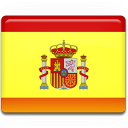
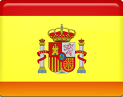
update language imgs and add hover effect

diff --git a/js/content.js b/js/content.js
@@ -24,22 +24,22 @@ window.data = {
     "Dutch":"Kopen"
   },
   what:{
-    "EN":"What.",
-    "DE":"Was.",
-    "ES":"Qué.",
-    "Dutch":"Wat."
+    "EN":"What",
+    "DE":"Was",
+    "ES":"Qué",
+    "Dutch":"Wat"
   },
   why:{
-    "EN":"Why.",
-    "DE":"Warum.",
-    "ES":"Por qué.",
-    "Dutch":"Waarom."
+    "EN":"Why",
+    "DE":"Warum",
+    "ES":"Por qué",
+    "Dutch":"Waarom"
   },
   who:{
-    "EN":"Who.",
+    "EN":"Who",
     "DE":"Wer",
-    "ES":"Quién.",
-    "Dutch":"Wie."
+    "ES":"Quién",
+    "Dutch":"Wie"
   },
   wassup1:{
     "EN":"Wassup! We are Saw Workshop's Team!",
@@ -54,10 +54,10 @@ window.data = {
     "Dutch":"Wij produceren top-kwaliteit, handgemaakte lichtpanelen. Dit zijn perfecte tools voor tattoo artists. Iedere artist kan met onze panelen sneller en gemakkelijker goede schetsen maken."
   },
   draw1:{
-    "EN":"Draw wherever you want.",
+    "EN":"Draw wherever you want",
     "DE":"Zeichne wo auch immer du willst",
-    "ES":"Dibuja lo que quieras.",
-    "Dutch":"Teken waar je maar wilt."
+    "ES":"Dibuja lo que quieras",
+    "Dutch":"Teken waar je maar wilt"
   },
   draw2:{
     "EN":"No need to find where to draw anymore - your only place for drawing always with you.",
@@ -78,10 +78,10 @@ window.data = {
     "Dutch":"Elke tattoo artist is uniek en kiest zijn apparatuur vaak helemaal\nzelf. Maar er is één kado dat geschikt is voor elke tattoo artist of tekenaar: een goed-gebouwd LED lichtpaneel waarop ze hun schetsen\nkunnen maken"
   },
   handmade1:{
-    "EN":"Handmade.",
+    "EN":"Handmade",
     "DE":"Handgefertigt",
-    "ES":"Hechos a mano.",
-    "Dutch":"Handgemaakte kwaliteit."
+    "ES":"Hechos a mano",
+    "Dutch":"Handgemaakte kwaliteit"
   },
   handmade2:{
     "EN":"All panels are handcrafted at a local workshop in Kyiv, combining true Ukrainian love and European quality.",
@@ -90,22 +90,22 @@ window.data = {
     "Dutch":"Alle lichtpanelen zijn handgemaakt in een locale workshop in Kiev. Wij combineren Oekraïnse liefde voor techniek met Europese kwaliteit."
   },
   frees1:{
-    "EN":"Frees up time.",
+    "EN":"Frees up time",
     "DE":"Mehr Zeit fürs Wesentliche",
-    "ES":"Aumentará tu tiempo libre.",
-    "Dutch":"Meer tijd over."
+    "ES":"Aumentará tu tiempo libre",
+    "Dutch":"Meer tijd over"
   },
   frees2:{
-    "EN":"Tattoo artists draw sketches 30-60% faster through the use of panels.",
-    "DE":"Tätowierer zeichnen Skizzen 30-60% schneller mit Hilfe der Panels.",
-    "ES":"Los tatuadores dibujan boceto un 30 -  60% más rápido con estos paneles.",
-    "Dutch":"Tattoo artists tekenen hun schetsen 30-60% sneller door het gebruik van onze panelen."
+    "EN":"Tattoo artists draw sketches 30-60% faster through the use of panels",
+    "DE":"Tätowierer zeichnen Skizzen 30-60% schneller mit Hilfe der Panels",
+    "ES":"Los tatuadores dibujan boceto un 30 -  60% más rápido con estos paneles",
+    "Dutch":"Tattoo artists tekenen hun schetsen 30-60% sneller door het gebruik van onze panelen"
   },
   designed1:{
-    "EN":"Designed for sketching.",
+    "EN":"Designed for sketching",
     "DE":"Designed fürs Skizzieren",
-    "ES":"Diseñado para dibujar.",
-    "Dutch":"Ontworpen voor schetsen."
+    "ES":"Diseñado para dibujar",
+    "Dutch":"Ontworpen voor schetsen"
   },
   designed2:{
     "EN":"Workspace of the panel has size equals to A3 paper. Also, it is divided into centimetre squares. This is especially good for drawing geometric patterns.\n",
@@ -114,10 +114,10 @@ window.data = {
     "Dutch":"Het werkoppervlak van het paneel is even groot als een A3-vel. Om schetsen makkelijker te maken hebben wij een centimeterraster ingebouwd in ons lichtpaneel. Hierdoor wordt het heel gemakkelijk om geometrische patronen te tekenen."
   },
   brightness1:{
-    "EN":"Brightness control.",
+    "EN":"Brightness control",
     "DE":"Helligkeit regelbar",
-    "ES":"Control de brillo.",
-    "Dutch":"Instelbare helderheid."
+    "ES":"Control de brillo",
+    "Dutch":"Instelbare helderheid"
   },
   brightness2:{
     "EN":"The panel is connected to the power supply of tattoo machines via clip cord. An artist can adjust the brightness of the panel by adjusting the voltage.",
@@ -126,7 +126,7 @@ window.data = {
     "Dutch":"Het paneel wordt gevoed met het clip cord dat uit je tattoovoeding komt. Je kunt de helderheid helemaal naar wens instellen door aan de spanning van je voeding te draaien."
   },
   ourMission1:{
-    "EN":"Our mission.",
+    "EN":"Our mission",
     "DE":"Unsere Mission",
     "ES":"Nuestra misión",
     "Dutch":"Onze Missie"

diff --git a/index.html b/index.html
@@ -1,4 +1,4 @@
-<!DOCTYPE html>
+<!DOCTYPE html>
 <html>
 <head>
 <link href="http://www.sawworkshop.com/favicon_16.png" sizes="16x16" rel="shortcut icon" type="image/png">
@@ -56,14 +56,12 @@
 			  <a class="navbar-brand" href="http://www.sawworkshop.com/">
 				<img alt="Saw Workshop" src="img/saw_logo.png" height="21" width="auto">
 			  </a>
-			  <!-- <button onclick="render(true, 'EN')">English</button>
-			  <button onclick="render(true, 'Dutch')">Dutch</button>
-			  <button onclick="render(true, 'ES')">Spain</button>
-			  <button onclick="render(true, 'DE')">German</button> -->
-			  <img class="language" width="40" style="margin-top:5px; cursor:pointer;" onclick="render(true, 'EN')" src="/img/flags/en.png">
-			  <img class="language" width="40" style="margin-top:5px; cursor:pointer;" onclick="render(true, 'Dutch')" src="/img/flags/eu.png">
-			  <img class="language" width="40" style="margin-top:5px; cursor:pointer;" onclick="render(true, 'ES')" src="/img/flags/es.png">
-			  <img class="language" width="40" style="margin-top:5px; cursor:pointer;" onclick="render(true, 'DE')" src="/img/flags/de.png">
+
+			  <img class="language" width="40" style="margin-top:9px; cursor:pointer;" onclick="render(true, 'EN', this)" src="/img/flags/earth_white.png">
+			  <img class="language" width="30" style="margin-top:7px; cursor:pointer;" onclick="render(true, 'EN', this)" src="/img/flags/eu.png">
+			  <img class="language" width="30" style="margin-top:7px; cursor:pointer;" onclick="render(true, 'DE', this)" src="/img/flags/de.png">
+			  <img class="language" width="30" style="margin-top:7px; cursor:pointer;" onclick="render(true, 'ES', this)" src="/img/flags/es.png">
+			  <img class="language" width="33" style="margin-top:7px; cursor:pointer;" onclick="render(true, 'Dutch', this)" src="/img/flags/benelux.png">
 			</div>
 
 			<!-- Collect the nav links, forms, and other content for toggling -->
@@ -277,6 +275,7 @@
 			<p><strong>{{ team1 }}</strong> {{ team2 }}
 			</p>
 			<p>{{ team3 }}</p>
+			<br/>
 			<div class="address">
 				<a href="https://www.facebook.com/glavat" target="_blank"><p>fb.com/glavat</p></a>
 			</div>
@@ -312,6 +311,7 @@
 			<p><strong>Social</strong> networker who communicates via facebook and instagram.
 			</p>
 			<p>Customer relationships, promo, PR</p>
+			<br/>
 			<div class="address">
 				<a href="https://www.facebook.com/dan.glavatskyh" target="_blank"><p>fb.com/dan.glavatskyh</p></a>
 			</div>
@@ -498,8 +498,8 @@
 
 	function showPosition(position) {
 		$.post( 'https://www.googleapis.com/geolocation/v1/geolocate?key=AIzaSyD95pD3EF2_j1Q4gocG8YwH6GBiMyGSVYs', function( data ) {
-        console.log('geolocation response');
-        console.log(data);
+        // console.log('geolocation response');
+        // console.log(data);
         getCountry(data.location.lat, data.location.lng);
 	    })
 	    .fail(function(data){
@@ -512,19 +512,19 @@
 
 function getCountry(lat, lng){
     $.get('http://maps.googleapis.com/maps/api/geocode/json', { latlng: lat + ',' + lng }, function(data) {
-        console.log(data);
+        // console.log(data);
         // $('#demo').after('<p>Your country: '+ data.results[0].address_components[6].short_name +'</p>');
         var country = false;
         var p = data.results;
         for (var key in p) {
           if (p.hasOwnProperty(key)) {
-            console.log(key, " -> ", p[key]);
+            // console.log(key, " -> ", p[key]);
             if (p[key].hasOwnProperty('address_components')){
                 var address_components = p[key].address_components;
                 for (var i in address_components) {
-                    console.log('addr',address_components[i]);
+                    // console.log('addr',address_components[i]);
                     if(address_components[i].hasOwnProperty('types') && JSON.stringify(address_components[i].types) == JSON.stringify(["country", "political"])){
-                        console.log('country',address_components[i]);
+                        // console.log('country',address_components[i]);
                         country = address_components[i].short_name;
                         break;
                     }
@@ -541,7 +541,8 @@ function getCountry(lat, lng){
     });
 }
 
-window.render = function render (isExist, language) {
+window.render = function render (isExist, language, img) {
+
 	var template = $('#indexTpl').html();
 	var html = null;
 	var currentData = transform();

diff --git a/css/styles.css b/css/styles.css
@@ -711,3 +711,10 @@ a {
 }
 
    }
+
+img.language:hover, img.language.choose{
+  border-color: #fff solid 1px;
+  -moz-box-shadow: 0 0 10px #fff;
+  -webkit-box-shadow: 0 0 10px #fff;
+  box-shadow: 0px 0px 10px #fff;
+}
